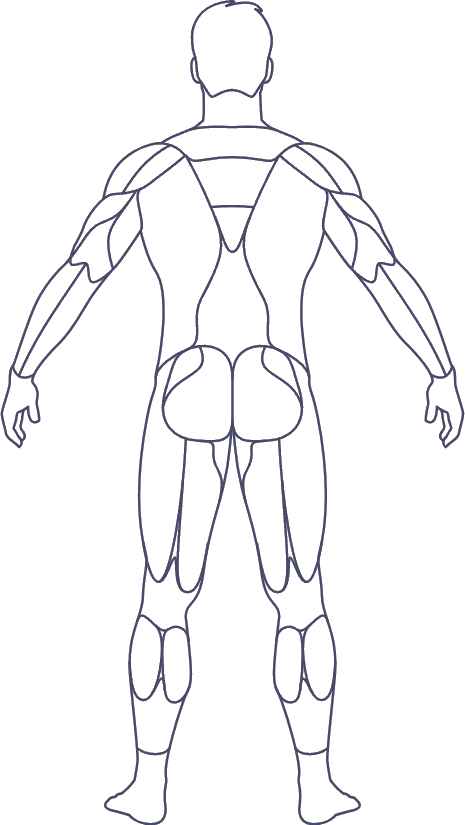
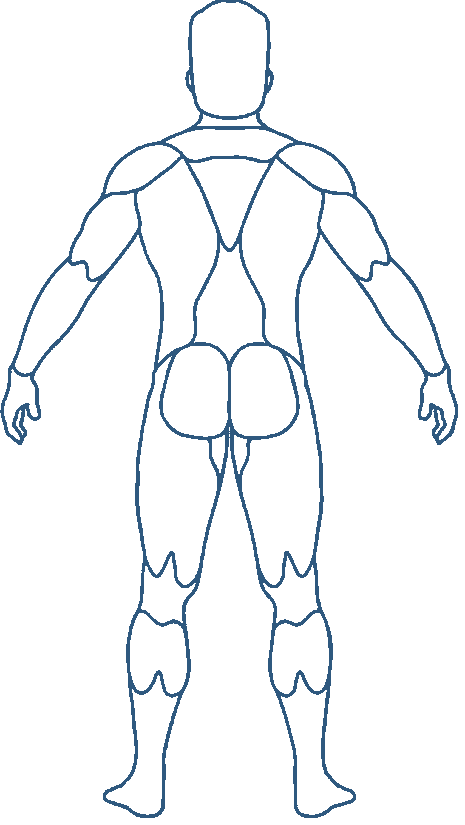
Arreglé bugs, optimice e implementé mejoras visuales
- Reemplacé el modelo anatómico (cuerpo + todas las máscaras musculares) en toda la app por uno más preciso, calzado exacto al contorno real de cada músculo.
- Separé trapecio de espalda alta como regiones propias; unifiqué pecho en una sola región (sin superior/inferior).
- Catálogo de ejercicios ampliado de 30 a 69: agregué ~38 ejercicios curados de free-exercise-db (traducidos y mapeados a mano a nuestras zonas musculares).
- Auditoría completa: sin duplicados, sin ejercicios sin ícono, sin regiones huérfanas.

Changed region(s): [[0.0, 0.0, 1.0, 1.0], [0.271, 0.3333, 0.3914, 0.6364], [0.3914, 0.3333, 0.4817, 0.4545]]

diff --git a/index.html b/index.html
@@ -89,7 +89,6 @@
   @keyframes fadeInUp { from { opacity:0; transform:translateY(10px); } to { opacity:1; transform:translateY(0); } }
   @keyframes shakeInvalid { 10%,90%{transform:translateX(-1px);} 20%,80%{transform:translateX(2px);} 30%,50%,70%{transform:translateX(-4px);} 40%,60%{transform:translateX(4px);} }
   @keyframes popIn { 0%{transform:scale(0.85); opacity:0;} 100%{transform:scale(1); opacity:1;} }
-  @keyframes flicker{ 0%{transform:scale(1);} 100%{transform:scale(1.15);} }
   @keyframes fadeInOverlay { from { opacity:0; } to { opacity:1; } }
   @keyframes slideUpSheet { from { transform:translateY(100%); } to { transform:translateY(0); } }
   @keyframes scaleUpModal { from { opacity:0; transform:scale(0.92); } to { opacity:1; transform:scale(1); } }
@@ -179,11 +178,8 @@
   .add-set-hevy:active{ background:var(--border); }
   .add-exercise-btn{ background:var(--surface); border:1px dashed var(--border); color:var(--accent); font-weight:600; font-size:14px; padding:14px; width:100%; margin-bottom:16px; border-radius:var(--radius); }
   .add-exercise-btn:active{ background:var(--surface-2); }
-  .hint-row{ font-size:11px; color:var(--text-dim); margin:-6px 0 10px 2px; }
 
   .dash-top-panel{ background:var(--surface); border:1px solid var(--border); border-radius:var(--radius); padding:16px; margin-bottom:16px; }
-  .streak-header{ display:flex; align-items:center; gap:8px; margin-bottom:14px; font-size:15px; font-weight:600; color:var(--text); }
-  .streak-fire{ font-size:20px; animation:flicker 2s infinite alternate; display:inline-block; }
   .cal-stats-row{ display:flex; align-items:center; justify-content:center; gap:16px; margin-bottom:14px; }
   .cal-stat{ font-size:13px; font-weight:600; color:var(--text); display:flex; align-items:center; gap:6px; }
   .cal-stat-divider{ width:1px; height:16px; background:var(--border); }
@@ -280,7 +276,6 @@
   .btn-icon:disabled{ opacity:0.3; pointer-events:none; }
 
   .pr-global-card{ background:var(--surface); border:1px solid var(--border); border-radius:var(--radius); padding:14px; margin-bottom:10px; display:flex; align-items:center; justify-content:space-between; animation:popIn 0.25s ease; }
-  .select-wrap select{ width:100%; background:var(--surface); border:1px solid var(--border); color:var(--text); padding:12px; border-radius:var(--radius); font-size:14px; margin-bottom:16px; outline:none; }
   .pr-card{ background:var(--surface); border:1px solid var(--border); border-radius:var(--radius); padding:18px; margin-bottom:16px; display:flex; justify-content:space-between; align-items:center; }
   .pr-card .pr-label{ font-size:12px; color:var(--text-dim); }
   .pr-card .pr-value{ font-size:22px; color:var(--gold); font-weight:700; margin-top:2px; }
@@ -353,11 +348,17 @@
 <script>
 const EXERCISE_CATALOG = [
   { name: "Press de banca plano", cat: "Pecho" }, { name: "Press inclinado con mancuernas", cat: "Pecho" }, { name: "Aperturas en polea", cat: "Pecho" }, { name: "Fondos en paralelas (Pecho)", cat: "Pecho" }, { name: "Press declinado", cat: "Pecho" },
+  { name: "Press de banca con mancuernas", cat: "Pecho" }, { name: "Press de pecho en máquina", cat: "Pecho" }, { name: "Cruce de poleas", cat: "Pecho" }, { name: "Flexiones de brazos", cat: "Pecho" }, { name: "Aperturas con mancuernas", cat: "Pecho" },
   { name: "Dominadas", cat: "Espalda" }, { name: "Remo con barra", cat: "Espalda" }, { name: "Jalón al pecho en polea", cat: "Espalda" }, { name: "Remo en polea baja", cat: "Espalda" }, { name: "Pull-over en polea", cat: "Espalda" },
+  { name: "Remo en máquina", cat: "Espalda" }, { name: "Remo con mancuerna a un brazo", cat: "Espalda" }, { name: "Remo en T", cat: "Espalda" }, { name: "Jalón con agarre cerrado", cat: "Espalda" }, { name: "Hiperextensiones", cat: "Espalda" },
   { name: "Sentadilla libre", cat: "Piernas" }, { name: "Peso muerto convencional", cat: "Piernas" }, { name: "Prensa de piernas 45°", cat: "Piernas" }, { name: "Extensiones de cuádriceps", cat: "Piernas" }, { name: "Curl femoral tumbado", cat: "Piernas" }, { name: "Elevación de talones (Gemelos)", cat: "Piernas" }, { name: "Hip Thrust", cat: "Piernas" },
+  { name: "Zancadas con mancuernas", cat: "Piernas" }, { name: "Sentadilla búlgara", cat: "Piernas" }, { name: "Peso muerto rumano", cat: "Piernas" }, { name: "Sentadilla frontal", cat: "Piernas" }, { name: "Zancada caminando", cat: "Piernas" }, { name: "Puente de glúteos", cat: "Piernas" }, { name: "Sentadilla goblet", cat: "Piernas" }, { name: "Curl femoral sentado", cat: "Piernas" }, { name: "Peso muerto sumo", cat: "Piernas" }, { name: "Buenos días", cat: "Piernas" }, { name: "Patada de glúteo en polea", cat: "Piernas" },
   { name: "Press militar con barra", cat: "Hombros" }, { name: "Elevaciones laterales con mancuernas", cat: "Hombros" }, { name: "Press Arnold", cat: "Hombros" }, { name: "Pájaros (Posteriores)", cat: "Hombros" }, { name: "Encogimientos de hombros con mancuernas", cat: "Hombros" },
+  { name: "Press de hombros con mancuernas", cat: "Hombros" }, { name: "Elevación frontal con mancuernas", cat: "Hombros" }, { name: "Face pull", cat: "Hombros" }, { name: "Elevación lateral en polea", cat: "Hombros" }, { name: "Pájaro con mancuernas inclinado", cat: "Hombros" }, { name: "Remo al mentón", cat: "Hombros" },
   { name: "Curl de bíceps con barra", cat: "Brazos" }, { name: "Curl de bíceps con mancuernas tipo martillo", cat: "Brazos" }, { name: "Curl de bíceps en polea", cat: "Brazos" }, { name: "Extensiones de tríceps en polea", cat: "Brazos" }, { name: "Press francés con barra Z", cat: "Brazos" }, { name: "Extensiones de tríceps por encima de la cabeza", cat: "Brazos" },
-  { name: "Plancha abdominal", cat: "Core" }, { name: "Elevación de piernas colgado", cat: "Core" }, { name: "Crunch en polea", cat: "Core" }
+  { name: "Curl concentrado", cat: "Brazos" }, { name: "Curl en banco Scott", cat: "Brazos" }, { name: "Press francés con mancuerna", cat: "Brazos" }, { name: "Fondos en banco (Tríceps)", cat: "Brazos" }, { name: "Patada de tríceps", cat: "Brazos" }, { name: "Press cerrado con barra", cat: "Brazos" }, { name: "Curl inverso con barra", cat: "Brazos" },
+  { name: "Plancha abdominal", cat: "Core" }, { name: "Elevación de piernas colgado", cat: "Core" }, { name: "Crunch en polea", cat: "Core" },
+  { name: "Rueda abdominal", cat: "Core" }, { name: "Elevación de piernas en banco", cat: "Core" }, { name: "Giro ruso", cat: "Core" }, { name: "Plancha lateral", cat: "Core" }
 ];
 
 const PREDEFINED_ROUTINES = [
@@ -382,11 +383,17 @@ const MUSCLE_COLOR = { push: "#EB5757", pull: "#9B51E0", accent: "#F2994A", calf
 // Mapea cada ejercicio del catálogo a una sub-zona muscular específica (no solo la categoría general).
 const EXERCISE_ICON_MAP = {
   'Press de banca plano': 'chest_mid', 'Press inclinado con mancuernas': 'chest_upper', 'Aperturas en polea': 'chest_mid', 'Fondos en paralelas (Pecho)': 'chest_lower', 'Press declinado': 'chest_lower',
+  'Press de banca con mancuernas': 'chest_mid', 'Press de pecho en máquina': 'chest_mid', 'Cruce de poleas': 'chest_mid', 'Flexiones de brazos': 'chest_mid', 'Aperturas con mancuernas': 'chest_mid',
   'Dominadas': 'back_lats', 'Remo con barra': 'back_mid', 'Jalón al pecho en polea': 'back_lats', 'Remo en polea baja': 'back_mid', 'Pull-over en polea': 'back_lats',
+  'Remo en máquina': 'back_mid', 'Remo con mancuerna a un brazo': 'back_mid', 'Remo en T': 'back_mid', 'Jalón con agarre cerrado': 'back_lats', 'Hiperextensiones': 'back_mid',
   'Sentadilla libre': 'legs_quads_glutes', 'Peso muerto convencional': 'legs_hamstrings_glutes', 'Prensa de piernas 45°': 'legs_quads', 'Extensiones de cuádriceps': 'legs_quads', 'Curl femoral tumbado': 'legs_hamstrings', 'Elevación de talones (Gemelos)': 'legs_calves', 'Hip Thrust': 'legs_glutes',
+  'Zancadas con mancuernas': 'legs_quads_glutes', 'Sentadilla búlgara': 'legs_quads_glutes', 'Peso muerto rumano': 'legs_hamstrings_glutes', 'Sentadilla frontal': 'legs_quads_glutes', 'Zancada caminando': 'legs_quads_glutes', 'Puente de glúteos': 'legs_glutes', 'Sentadilla goblet': 'legs_quads_glutes', 'Curl femoral sentado': 'legs_hamstrings', 'Peso muerto sumo': 'legs_hamstrings_glutes', 'Buenos días': 'legs_hamstrings_glutes', 'Patada de glúteo en polea': 'legs_glutes',
   'Press militar con barra': 'shoulders_front', 'Elevaciones laterales con mancuernas': 'shoulders_side', 'Press Arnold': 'shoulders_front_side', 'Pájaros (Posteriores)': 'shoulders_rear', 'Encogimientos de hombros con mancuernas': 'back_traps',
+  'Press de hombros con mancuernas': 'shoulders_front', 'Elevación frontal con mancuernas': 'shoulders_front', 'Face pull': 'shoulders_rear', 'Elevación lateral en polea': 'shoulders_side', 'Pájaro con mancuernas inclinado': 'shoulders_rear', 'Remo al mentón': 'shoulders_side',
   'Curl de bíceps con barra': 'arms_biceps', 'Curl de bíceps con mancuernas tipo martillo': 'arms_biceps', 'Curl de bíceps en polea': 'arms_biceps', 'Extensiones de tríceps en polea': 'arms_triceps', 'Press francés con barra Z': 'arms_triceps', 'Extensiones de tríceps por encima de la cabeza': 'arms_triceps',
-  'Plancha abdominal': 'core_abs', 'Elevación de piernas colgado': 'core_lower_abs', 'Crunch en polea': 'core_abs'
+  'Curl concentrado': 'arms_biceps', 'Curl en banco Scott': 'arms_biceps', 'Press francés con mancuerna': 'arms_triceps', 'Fondos en banco (Tríceps)': 'arms_triceps', 'Patada de tríceps': 'arms_triceps', 'Press cerrado con barra': 'arms_triceps', 'Curl inverso con barra': 'arms_biceps',
+  'Plancha abdominal': 'core_abs', 'Elevación de piernas colgado': 'core_lower_abs', 'Crunch en polea': 'core_abs',
+  'Rueda abdominal': 'core_abs', 'Elevación de piernas en banco': 'core_lower_abs', 'Giro ruso': 'core_abs', 'Plancha lateral': 'core_abs'
 };
 
 function getExerciseIconKey(exName){
@@ -425,25 +432,23 @@ function getExerciseIconKey(exName){
 // ese músculo tal como está dibujado en la imagen de referencia: se generó separando automáticamente
 // cada forma cerrada por las líneas del dibujo (segmentación por componentes conexas), así el color
 // nunca se sale del contorno real ni se mezcla en un blob, a diferencia de los óvalos calculados a mano.
-const FRONT_REGIONS = ['chest_upper', 'chest_lower', 'shoulders', 'arms', 'abs', 'quads', 'calves'];
-const BACK_REGIONS = ['traps', 'shoulders', 'lats', 'backmid', 'arms', 'glutes', 'hamstrings', 'calves'];
+const FRONT_REGIONS = ['chest', 'shoulders', 'arms', 'abs', 'quads'];
+const BACK_REGIONS = ['traps', 'upperback', 'espaldabaja', 'shoulders', 'lats', 'arms', 'glutes', 'hamstrings', 'calves'];
 
-// Qué región de cada vista prende cada key de EXERCISE_ICON_MAP / getExerciseIconKey. El pectoral
-// superior (inclinado) se separa del medio/inferior (plano, declinado, fondos), y el trapecio se
-// separa del resto de la espalda y del hombro.
+// Qué región de cada vista prende cada key de EXERCISE_ICON_MAP / getExerciseIconKey. El trapecio se
+// separa del resto de la espalda y del hombro; el pecho queda unificado (sin superior/inferior).
 const FRONT_KEY_REGIONS = {
-  chest_upper: ['chest_upper'], chest_mid: ['chest_lower'], chest_lower: ['chest_lower'],
+  chest_upper: ['chest'], chest_mid: ['chest'], chest_lower: ['chest'],
   shoulders_front: ['shoulders'], shoulders_side: ['shoulders'], shoulders_front_side: ['shoulders'],
   arms_biceps: ['arms'],
   legs_quads: ['quads'], legs_quads_glutes: ['quads'],
-  legs_calves: ['calves'],
   core_abs: ['abs'], core_lower_abs: ['abs']
 };
 const BACK_KEY_REGIONS = {
-  back_lats: ['lats'], back_mid: ['backmid'], back_traps: ['traps'],
+  back_lats: ['lats'], back_mid: ['upperback'], back_traps: ['traps'],
   shoulders_rear: ['shoulders'],
   arms_triceps: ['arms'],
-  legs_hamstrings: ['hamstrings'], legs_hamstrings_glutes: ['hamstrings','glutes'],
+  legs_hamstrings: ['hamstrings'], legs_hamstrings_glutes: ['hamstrings','glutes','espaldabaja'],
   legs_glutes: ['glutes'], legs_quads_glutes: ['glutes'],
   legs_calves: ['calves']
 };
